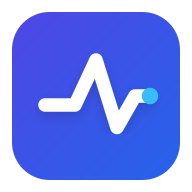
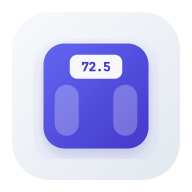
chore(assets): atualiza ícone do app e PWA para uma balança de bioimpedância nativa

diff --git a/index.html b/index.html
@@ -3,6 +3,7 @@
   <head>
     <meta charset="UTF-8" />
     <link rel="icon" type="image/svg+xml" href="/favicon.svg" />
+    <link rel="apple-touch-icon" href="/apple-touch-icon.png" />
     <meta name="viewport" content="width=device-width, initial-scale=1.0, maximum-scale=1.0, user-scalable=no, viewport-fit=cover" />
     <meta name="apple-mobile-web-app-capable" content="yes" />
     <meta name="apple-mobile-web-app-status-bar-style" content="black-translucent" />
